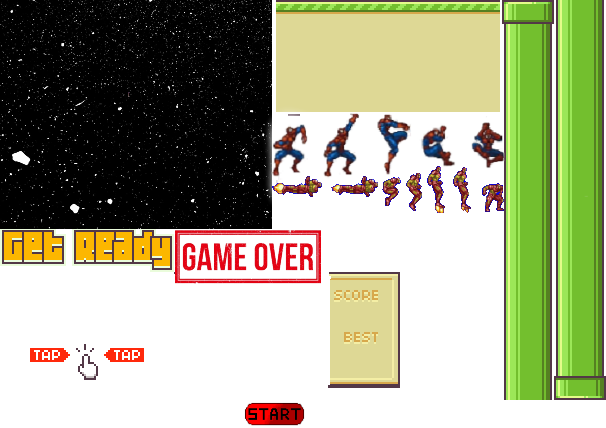
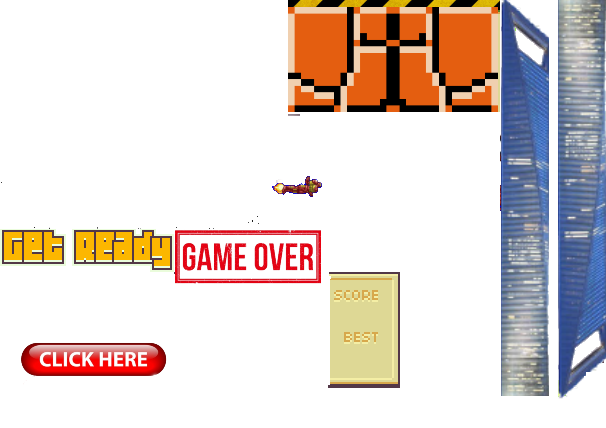
final

diff --git a/Limitless.js b/Limitless.js
@@ -1,11 +1,9 @@
 // canvas box
 var canvas = document.getElementById("game");
 var context = canvas.getContext("2d");
-
-// frames
 let frames = 0;
 
-// linkinh image layout
+// link image layout
 var layout = new Image();
 layout.src = "img/newGame.png";
 
@@ -25,10 +23,8 @@ canvas.addEventListener("click", function (evt) {
 		case condition.game:
 			if (ironman.y - ironman.radius <= 0) return;
 			ironman.flap()
-			pauseButton.draw()
 			break;
 		case condition.gameOver:
-			//var rect = cvs.getBoundingClientRect();
 			var clickX = evt.clientX - rect.left;
 			var clickY = evt.clientY - rect.top;
 	}
@@ -48,6 +44,7 @@ var og = {
 	x: 0,
 	y: canvas.height - 112,
 	dx: 2,
+	//both floors together for complete ground
  draw: function () {
 		context.drawImage(layout, this.sX, this.sY, this.w, this.h, this.x, this.y, this.w, this.h);
 
@@ -99,7 +96,7 @@ var ironman = {
 
 
 		if (condition.live == condition.getReady) {
-			this.y = 150; // RESET POSITION OF IRON MAN AFTER GAME OVER
+			this.y = 150; // reset pos after game over
 
 		} else {
 			this.speed += this.gravity;
@@ -156,8 +153,8 @@ var gameOver = {
 
 }
 
-// PIPES
-var pipes = {
+// building
+var building = {
 	position: [],
 
 	top: {
@@ -233,10 +230,7 @@ var pipes = {
 	reset: function () {
 		this.position = [];
 	}
-
 }
-
-// SCORE
 var score = {
 	best: parseInt(localStorage.getItem("best")),
 	value: 0,
@@ -263,23 +257,12 @@ var score = {
 		this.value = 0;
 	}
 }
-var pauseButton = {
-	x: 120,
-	y: 263,
-	w: 83,
-	h: 29,
-	draw: function () {
-		if (condition.live == condition.game) {
-			context.drawImage(layout, this.sX, this.sY, this.w, this.h, this.x, this.y, this.w, this.h);
-		}
-	}
-}
 // DRAW
 function draw() {
 	context.fillStyle = "#000";
 	context.fillRect(0, 0, canvas.width, canvas.height);
 	bg.draw();
-	pipes.draw();
+	building.draw();
 	og.draw();
 	ironman.draw();
 	getReady.draw();
@@ -290,7 +273,7 @@ function draw() {
 function update() {
 	ironman.update();
 	og.update();
-	pipes.update();
+	building.update();
 }
 // loop
 function loop() {

diff --git a/Limitless.css b/Limitless.css
@@ -2,44 +2,3 @@ body {
 		background-image: URL("https://img.pngio.com/animated-blizzard-on-transparent-backgro-669153-png-images-pngio-animated-blizzard-png-1920_1080.png");
 	background-repeat: no-repeat;
 }
-
-//*div.image {
-	content:url("https://i.pinimg.com/736x/9f/65/38/9f6538222c799ef1f83b13a024f33b63.jpg");
-		width: 200px;
-			height:200px;
-}
-//*div.UpsidedownObstacleimage{
-	content: url("https://pngimg.com/uploads/building/building_PNG30.png");
-	height: 500px;
-	width: 450px;
-	transform: rotate(180deg);
-}
-div.Obstacleimage{
-	content: url("https://pngimg.com/uploads/building/building_PNG30.png");
-	height: 500px;
-	width: 450px;
-	object-position: right;
-}
-	.obstacle {
-	height: 1px;
-	width: 1000px;
-	background-color: lime;
-}
-
-.collision-state {
-  background-color: green;
-}
-
-.no-collision-state {
-  background-color: blue;
-}
-
-
-	//*https://www.vippng.com/png/full/131-1315139_icebreaker-hungry-dragon-ice-dragons.png
-//*(dragon image/different character image)https://lh3.googleusercontent.com/proxy/lzPUaLaviRcnWfBLXwL4qvIHoAT53URzZ08eXoczUbxG-FuZoVm3JvFA6g9Odt7FmF5prK2W-v0EVO89FVNfCEhVXYBl4w9q
-https://www.vippng.com/png/full/131-1315139_icebreaker-hungry-dragon-ice-dragons.png
-
-body {
-		background-image: URL("https://img.pngio.com/animated-blizzard-on-transparent-backgro-669153-png-images-pngio-animated-blizzard-png-1920_1080.png");
-	background-repeat: no-repeat
-}

diff --git a/Limitless.html b/Limitless.html
@@ -1,27 +1,19 @@
 <!DOCTYPE html>
 	<html>
-
 	<head>
 		<title>Limitless</title>
 		<link rel="stylesheet " href="Limitless.css">
 		<style>
 			canvas {
-				border: 1px solid black;
+				border: 10px solid black;
 				display: block;
-				margin: 0 auto;
 			}
-
 		</style>
 	</head>
 
 	<body>
-		<canvas id="game" width="320" height="480"></canvas>
+	 <canvas id="game" width="320" height="480"></canvas>
 		<script src="Limitless.js"></script>
-		<div class="obstacle" id="obstacle1"></div>
-<div class="image"></div>
-
-
-
 	</body>
 
 	</html>
